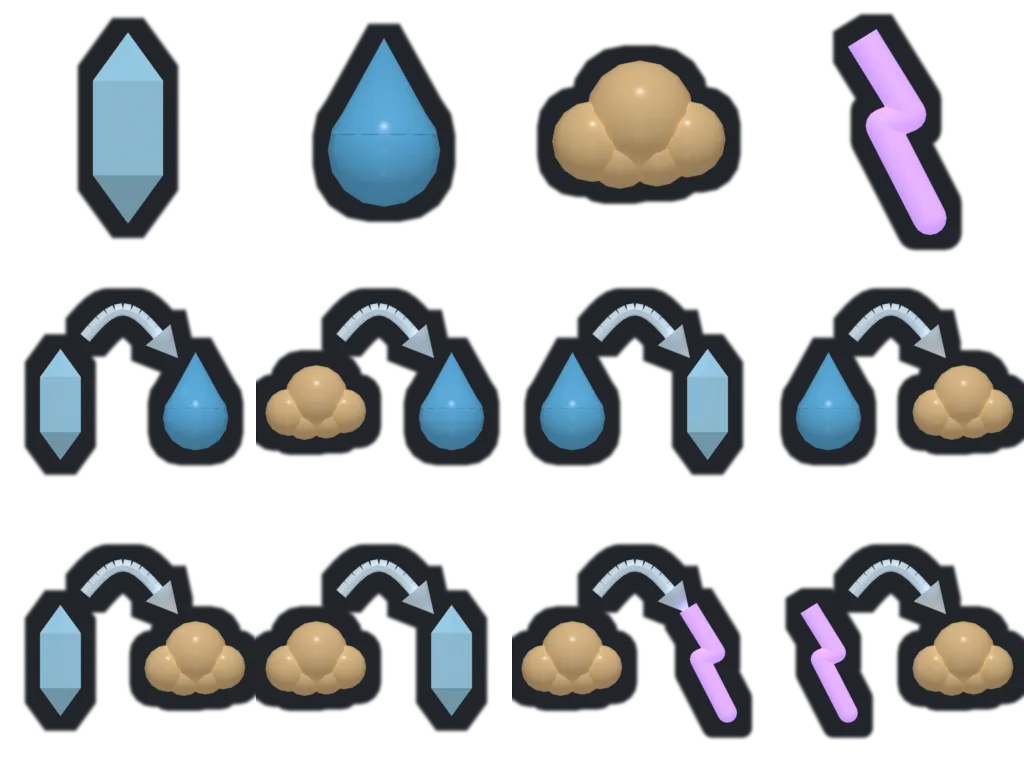
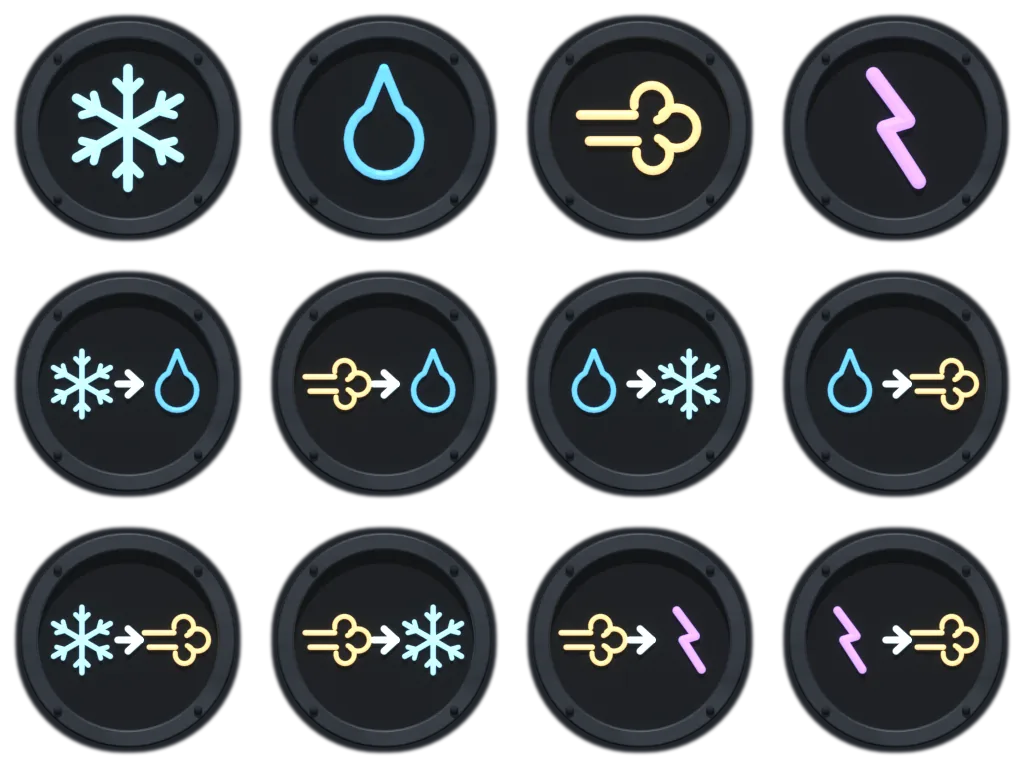
Les icônes deviennent des plaques d'instrument, aux couleurs des états
Symptôme : le concepteur, sur la première planche : « ces icônes ne
collent pas à l'univers actuel, ça fait un peu enfantin » — des objets
ronds et saturés, cernés de noir comme des autocollants ; le cube de la
glace et la nuée de la vapeur, peu clairs.

Correctif : chaque icône est un voyant de pupitre — un disque d'acier
riveté, sa face sombre, le symbole incrusté en émail qui luit à la
couleur de son état (glace #a7ddf5, eau #63b7e6, vapeur #f2c98e, plasma
#c99aff). Symboles retenus par le concepteur sur trois essais : le
flocon, la goutte, le souffle qui se disperse en nuée (une fonction à
part, l'état vapeur va changer), l'éclair. Les transformations : deux
symboles et une flèche gravée ; les trophées : une plaque ouvragée
(double lunette, huit rivets). Le cerne de l'assemblage passe de 15 à
5 px : la lunette détache déjà la plaque.

Vérification : prepare.py, les deux planches dans leurs seuils
(luminance 0,20, 0 % de bord plein, 43 et 32 Ko) ; réduites à 24 et
32 px, les douze icônes du cycle restent lisibles ; la barre d'état,
rendue avec la vraie feuille de style, montre flocon et goutte dans
leurs logements, l'état courant compris ; vitest vert.

Claude-Session: https://claude.ai/code/session_01KG6njsQbdRMcn6wzwbrg11

diff --git a/tools/images/blender/icones.py b/tools/images/blender/icones.py
@@ -6,12 +6,17 @@ le dessin change d'une machine à l'autre (sans police emoji : un carré vide).
 Ici, chaque icône est une petite pièce de l'atelier, rendue seule dans une
 case de 256 px ; tools/images/icones_planches.py les cerne et les range.
 
-ELLES DOIVENT SE LIRE À 24 PX (le logement de l'ATH au repos ; 32 px pour
-l'état courant, dont le fond est de la même teinte) : des silhouettes
-FRANCHES, peu de détails, une matière qui luit un peu par elle-même (une face
-à l'ombre ne doit pas tomber au noir), et le contour sombre posé à
-l'assemblage. Les couleurs de la charte : glace #a7ddf5, eau #63b7e6, vapeur
-#f2c98e, plasma #c99aff ; ni texte, ni cadre.
+LE STYLE : DES PLAQUES D'INSTRUMENT (choix du concepteur, 18/11). Le premier
+jet — des objets ronds et saturés, cernés de noir — « faisait enfantin », loin
+de l'acier riveté du laboratoire. Chaque icône est maintenant un voyant de
+pupitre : un disque d'acier riveté, sa face sombre, et le symbole incrusté en
+ÉMAIL qui luit, à la couleur de son état (charte : glace #a7ddf5, eau #63b7e6,
+vapeur #f2c98e, plasma #c99aff). Les symboles, retenus par le concepteur : le
+FLOCON (le carré du cadran ne se lisait pas), la GOUTTE, le SOUFFLE qui se
+disperse en nuée (la vapeur — « l'état vapeur va sûrement pas mal changer » :
+son symbole est une fonction à part, `souffle`), l'ÉCLAIR. Ils doivent se lire à
+24 px (le logement de l'ATH au repos ; 32 px pour l'état courant) : des traits
+francs, rien de fin.
 
 Une case : x de −0,125 à 0,125, z de 0 à 0,25 (1 = 1024 px), centre (0, 0,125).
 
@@ -45,8 +50,7 @@ TROPHEES = ['sans-une-goutte', 'palet-parfait', 'trois-etats', 'ligne-de-crete',
 
 
 def mat_lumineux(nom, couleur, force):
-    """une matière qui luit un peu d'elle-même : à 24 px, la face à l'ombre
-    d'une goutte qui tombe au noir coupe la silhouette en deux"""
+    """l'émail du symbole : il luit par lui-même, à la couleur de son état"""
     m = mat_simple(nom, couleur, rug=0.3, emission=couleur, force=force)
     b = next(n for n in m.node_tree.nodes if n.type == 'BSDF_PRINCIPLED')
     for k in ('Specular IOR Level', 'Specular'):
@@ -56,135 +60,135 @@ def mat_lumineux(nom, couleur, force):
     return m
 
 
+COULEURS = {'solide': (0xa7, 0xdd, 0xf5), 'liquide': (0x63, 0xb7, 0xe6),
+            'gaz': (0xf2, 0xc9, 0x8e), 'plasma': (0xc9, 0x9a, 0xff),
+            'neutre': (0xcf, 0xe2, 0xee)}
+
+
 def matieres_icones():
     mats = matieres_biome()
-    mats['glace'] = mat_lumineux('ic-glace', (0xa7, 0xdd, 0xf5), 0.35)
-    mats['eau'] = mat_lumineux('ic-eau', (0x63, 0xb7, 0xe6), 0.35)
-    mats['vapeur'] = mat_lumineux('ic-vapeur', (0xf2, 0xc9, 0x8e), 0.3)
-    mats['plasma'] = mat_lumineux('ic-plasma', (0xc9, 0x9a, 0xff), 1.0)
-    mats['fleche'] = mat_lumineux('ic-fleche', (0xcf, 0xe2, 0xee), 0.45)
-    mats['acier'] = mat_brosse('ic-acier', (0x4a, 0x52, 0x5c), (0x8a, 0x94, 0xa0), 41, brosse=0.08)
-    mats['sombre'] = mat_simple('ic-sombre', (0x1a, 0x20, 0x28), rug=0.6)
+    for k, c in COULEURS.items():
+        mats['email-' + k] = mat_lumineux('ic-email-' + k, c, 1.3)
+    mats['face'] = mat_simple('ic-face', (0x10, 0x15, 0x1b), rug=0.5)
+    mats['bezel'] = mat_brosse('ic-bezel', (0x40, 0x46, 0x4e), (0x86, 0x8e, 0x98), 51, brosse=0.12)
     return mats
 
 
-# ------------------------------------------------------------ les quatre états
-def cristal(at, x, z, s):
-    """un prisme de glace à six pans, pointu aux deux bouts"""
-    at.tube('glace', (x, 0, z - 0.42 * s), (x, 0, z + 0.42 * s), 0.36 * s, seg=6)
-    at.tube('glace', (x, 0, z + 0.42 * s), (x, 0, z + 0.85 * s), 0.36 * s, seg=6, r2=0.0)
-    at.tube('glace', (x, 0, z - 0.42 * s), (x, 0, z - 0.85 * s), 0.36 * s, seg=6, r2=0.0)
+# ------------------------------------------------------------ la plaque
+def plaque(at, trophee=False):
+    """le voyant : la face sombre, la lunette d'acier brossé, ses rivets —
+    celle d'un trophée est ouvragée (double lunette, huit rivets)"""
+    at.cylindre('face', 0, Z0, 0.092, -0.01, 0.01, 0, seg=64)
+    at.anneau('bezel', 0, Z0, 0.105, 0.088, -0.022, 0.012, 0, seg=64)
+    n = 8 if trophee else 4
+    for k in range(n):
+        a = math.pi / 4 + k * 2 * math.pi / n
+        at.dome('rivet', 0.097 * math.cos(a), Z0 + 0.097 * math.sin(a), 0.0045, -0.024, 0)
+    if trophee:
+        at.anneau('bezel', 0, Z0, 0.084, 0.079, -0.014, 0.0, 0, seg=64)
 
 
-def goutte(at, x, z, s):
-    at.coussin('eau', x, z - 0.2 * s, 0.5 * s, 0.5 * s, 0.5 * s, 0, 0)
-    at.tube('eau', (x, 0, z - 0.05 * s), (x, 0, z + 0.8 * s), 0.47 * s, seg=32, r2=0.0)
+Y_EMAIL = -0.013
+TRAIT = 0.0045
 
 
-def nuee(at, x, z, s):
-    for (dx, dz, r) in ((-0.42, -0.12, 0.36), (0.0, 0.12, 0.48), (0.42, -0.1, 0.34), (0.15, -0.22, 0.3), (-0.18, -0.24, 0.3)):
-        at.coussin('vapeur', x + dx * s, z + dz * s, r * s, r * s, r * s, 0, 0)
+def trace(at, etat, pts, r=TRAIT):
+    """un trait d'émail le long d'une polyligne, aux joints arrondis"""
+    m = 'email-' + etat
+    for (a, b) in zip(pts, pts[1:]):
+        at.tube(m, (a[0], Y_EMAIL, a[1]), (b[0], Y_EMAIL, b[1]), r, seg=8)
+        at.coussin(m, b[0], b[1], r, r, r, Y_EMAIL, 0)
+    at.coussin(m, pts[0][0], pts[0][1], r, r, r, Y_EMAIL, 0)
 
 
-def arc(at, x, z, s):
-    """l'arc électrique : un éclair épais en trois segments"""
-    pts = [(-0.3, 0.8), (0.12, 0.12), (-0.12, 0.02), (0.3, -0.8)]
-    pts = [(x + a * s, 0, z + b * s) for a, b in pts]
-    for p0, p1 in zip(pts, pts[1:]):
-        at.tube('plasma', p0, p1, 0.15 * s, seg=12)
-        at.coussin('plasma', p1[0], p1[2], 0.15 * s, 0.15 * s, 0.15 * s, 0, 0)
+def arc_pts(cx, cz, rr, a0, a1, n=16):
+    return [(cx + rr * math.cos(a0 + (a1 - a0) * k / n), cz + rr * math.sin(a0 + (a1 - a0) * k / n)) for k in range(n + 1)]
 
 
-ETATS = {'solide': cristal, 'liquide': goutte, 'gaz': nuee, 'plasma': arc}
+# ------------------------------------------------------------ les symboles
+# Chacun dans un disque de rayon ~1 autour de (cx, cz), à l'échelle s.
+def flocon(at, cx, cz, s, etat='solide'):
+    for k in range(6):
+        a = math.pi / 2 + k * math.pi / 3
+        d = (math.cos(a), math.sin(a))
+        trace(at, etat, [(cx, cz), (cx + s * d[0], cz + s * d[1])], TRAIT * min(1, s / 0.058))
+        b = (cx + 0.58 * s * d[0], cz + 0.58 * s * d[1])
+        for sg in (-1, 1):
+            a2 = a + sg * math.pi / 4
+            trace(at, etat, [b, (b[0] + 0.28 * s * math.cos(a2), b[1] + 0.28 * s * math.sin(a2))], TRAIT * 0.85 * min(1, s / 0.058))
 
 
-def fleche(at, x0, x1, z, h):
-    """une flèche fine, en arc, de x0 à x1, sa pointe à droite"""
-    n = 10
-    pts = [(x0 + (x1 - x0) * k / n, 0, z + h * math.sin(math.pi * k / n)) for k in range(n + 1)]
-    for p0, p1 in zip(pts, pts[1:]):
-        at.tube('fleche', p0, p1, 0.006, seg=8)
-    a, b = Vector(pts[-2]), Vector(pts[-1])
-    d = (b - a).normalized()
-    at.tube('fleche', tuple(b - d * 0.004), tuple(b + d * 0.026), 0.016, seg=12, r2=0.0)
+def goutte(at, cx, cz, s, etat='liquide'):
+    r = 0.6 * s
+    pts = [(cx, cz + s)] + arc_pts(cx, cz - 0.2 * s, r, math.pi * 0.65 + math.pi / 2 - math.pi / 2, math.pi * 2.35, 20) + [(cx, cz + s)]
+    trace(at, etat, pts, TRAIT * min(1, s / 0.058))
+
+
+def souffle(at, cx, cz, s, etat='gaz'):
+    """LA VAPEUR : un souffle venu de la gauche qui se disperse en nuée —
+    deux traits, puis trois volutes ouvertes côté souffle. (L'état vapeur va
+    changer : c'est le seul symbole à redessiner alors.)"""
+    k = min(1, s / 0.058)
+    trace(at, etat, [(cx - s, cz + 0.22 * s), (cx - 0.1 * s, cz + 0.22 * s)], TRAIT * k)
+    trace(at, etat, [(cx - 0.85 * s, cz - 0.22 * s), (cx - 0.05 * s, cz - 0.22 * s)], TRAIT * k)
+    for (dx, dz, rr, a0, a1) in ((0.2, 0.42, 0.3, -0.4 * math.pi, 1.05 * math.pi), (0.62, 0.0, 0.34, -0.75 * math.pi, 0.75 * math.pi),
+                                 (0.22, -0.44, 0.28, -1.05 * math.pi, 0.4 * math.pi)):
+        trace(at, etat, arc_pts(cx + dx * s, cz + dz * s, rr * s, a0, a1, 18), TRAIT * 0.9 * k)
+
+
+def eclair(at, cx, cz, s, etat='plasma'):
+    # (essai 1, à 1,15 trait sur un zigzag étroit : le plus maigre des quatre)
+    pts = [(-0.38, 0.9), (0.2, 0.12), (-0.2, 0.0), (0.38, -0.9)]
+    trace(at, etat, [(cx + a * s, cz + b * s) for a, b in pts], TRAIT * 1.6 * min(1, s / 0.058))
+
+
+SYMBOLES = {'solide': flocon, 'liquide': goutte, 'gaz': souffle, 'plasma': eclair}
+
+
+def fleche(at, x0, x1, z):
+    trace(at, 'neutre', [(x0, z), (x1, z)], TRAIT * 0.7)
+    trace(at, 'neutre', [(x1 - 0.012, z + 0.011), (x1, z), (x1 - 0.012, z - 0.011)], TRAIT * 0.7)
 
 
 def transformation(at, src, dst):
-    # (essai 1, à 0,075 et ±0,07 : la nuée débordait de sa case, rognée par
-    # le bord, son cerne avec elle)
-    ETATS[src](at, -0.066, Z0 - 0.02, 0.064)
-    ETATS[dst](at, 0.066, Z0 - 0.02, 0.064)
-    fleche(at, -0.042, 0.032, Z0 + 0.045, 0.028)
+    SYMBOLES[src](at, -0.045, Z0, 0.032)
+    SYMBOLES[dst](at, 0.048, Z0, 0.032)
+    fleche(at, -0.01, 0.012, Z0)
 
 
 # ------------------------------------------------------------ les trophées
-def poly(at, mat, pts, yf=-0.01, yb=0.01):
-    at.prisme(mat, pts, yf, yb)
-
-
 def trophee(at, nom):
     if nom == 'sans-une-goutte':
-        at.anneau('acier', 0, Z0, 0.1, 0.082, -0.012, 0.012, 0, seg=64)
-        goutte(at, 0, Z0 - 0.005, 0.085)
+        at.anneau('email-liquide', 0, Z0, 0.062, 0.056, Y_EMAIL - 0.002, Y_EMAIL + 0.002, 0, seg=64)
+        goutte(at, 0, Z0, 0.04)
     elif nom == 'palet-parfait':
-        at.cylindre('glace', 0, Z0, 0.09, -0.012, 0.012, 0, seg=64)
-        at.anneau('fleche', 0, Z0, 0.09, 0.078, -0.016, -0.012, 0, seg=64)
-        # deux reflets droits : un palet POLI, pas une boule de neige
-        for (a, b) in (((-0.04, 0.03), (0.02, 0.05)), ((-0.05, -0.01), (0.04, 0.025))):
-            at.tube('fleche', (a[0], -0.018, Z0 + a[1]), (b[0], -0.018, Z0 + b[1]), 0.004, seg=6)
+        h = [(0.05 * math.cos(k * math.pi / 3), Z0 + 0.05 * math.sin(k * math.pi / 3)) for k in range(7)]
+        trace(at, 'solide', h)
+        trace(at, 'solide', [(-0.022, Z0 + 0.012), (0.012, Z0 + 0.026)], TRAIT * 0.7)
     elif nom == 'trois-etats':
-        cristal(at, 0, Z0 + 0.045, 0.065)
-        goutte(at, -0.055, Z0 - 0.05, 0.06)
-        nuee(at, 0.055, Z0 - 0.05, 0.065)
+        flocon(at, 0, Z0 + 0.036, 0.024)
+        goutte(at, -0.036, Z0 - 0.026, 0.024)
+        souffle(at, 0.038, Z0 - 0.026, 0.024)
     elif nom == 'ligne-de-crete':
-        poly(at, 'acier', [(-0.105, Z0 - 0.07), (-0.05, Z0 + 0.0), (-0.02, Z0 - 0.025), (0.035, Z0 + 0.06),
-                           (0.105, Z0 - 0.07)])
-        poly(at, 'glace', [(0.012, Z0 + 0.03), (0.035, Z0 + 0.06), (0.058, Z0 + 0.03), (0.046, Z0 + 0.038),
-                           (0.035, Z0 + 0.026), (0.024, Z0 + 0.038)], -0.012, -0.01)
-        at.tube('acier', (0.035, -0.012, Z0 + 0.06), (0.035, -0.012, Z0 + 0.11), 0.004, seg=8)
-        poly(at, 'eau', [(0.037, Z0 + 0.108), (0.08, Z0 + 0.095), (0.037, Z0 + 0.082)], -0.014, -0.012)
+        trace(at, 'solide', [(-0.06, Z0 - 0.035), (-0.025, Z0 + 0.0), (-0.008, Z0 - 0.016), (0.022, Z0 + 0.03), (0.06, Z0 - 0.035)])
+        trace(at, 'neutre', [(0.022, Z0 + 0.03), (0.022, Z0 + 0.065)], TRAIT * 0.7)
+        trace(at, 'liquide', [(0.022, Z0 + 0.065), (0.048, Z0 + 0.055), (0.022, Z0 + 0.046)], TRAIT * 0.7)
     elif nom == 'miroir-vivant':
-        cristal(at, 0.02, Z0 - 0.01, 0.07)
-        at.tube('eau', (-0.105, -0.02, Z0 + 0.07), (0.0, -0.02, Z0 - 0.0), 0.009, seg=10)
-        at.tube('eau', (0.0, -0.02, Z0 - 0.0), (0.1, -0.02, Z0 + 0.08), 0.009, seg=10)
-        at.coussin('fleche', 0.0, Z0, 0.016, 0.016, 0.016, -0.025, 0)
+        trace(at, 'neutre', [(0.0, Z0 - 0.05), (0.045, Z0 - 0.005)], TRAIT * 1.2)
+        trace(at, 'liquide', [(-0.06, Z0 + 0.045), (0.022, Z0 - 0.027), (0.02, Z0 + 0.06)])
     elif nom == 'recondense':
-        at.boite('acier', -0.1, 0.1, Z0 - 0.07, Z0 - 0.045, -0.02, 0.02, 0)
+        trace(at, 'neutre', [(-0.06, Z0 - 0.03), (0.06, Z0 - 0.03)], TRAIT * 0.8)
         for k in range(5):
-            x = -0.08 + k * 0.04
-            at.coussin('eau', x, Z0 - 0.025, 0.017, 0.017, 0.017, -0.005, 0)
+            at.coussin('email-liquide', -0.048 + k * 0.024, Z0 - 0.01, 0.009, 0.009, 0.004, Y_EMAIL, 0)
     elif nom == 'integrale':
-        # la station : un fût, deux ailes de panneaux
-        at.tube('acier', (-0.03, 0, Z0), (0.03, 0, Z0), 0.018, seg=24)
-        at.boite('glace', -0.08, -0.035, Z0 - 0.022, Z0 + 0.022, -0.003, 0.003, 0)
-        at.boite('glace', 0.035, 0.08, Z0 - 0.022, Z0 + 0.022, -0.003, 0.003, 0)
-
-        # l'orbite : une ellipse inclinée, sa moitié arrière DERRIÈRE la station
-        def p(t):
-            xx, zz = 0.105 * math.cos(t), 0.04 * math.sin(t)
-            c, s_ = math.cos(-0.35), math.sin(-0.35)
-            return (xx * c - zz * s_, (0.03 if math.sin(t) > 0 else -0.03), Z0 + xx * s_ + zz * c)
-        n = 48
-        for k in range(n):
-            at.tube('fleche', p(2 * math.pi * k / n), p(2 * math.pi * (k + 1) / n), 0.004, seg=6)
-        at.coussin('eau', p(1.2)[0], p(1.2)[2], 0.012, 0.012, 0.012, -0.035, 0)
+        el = [(0.065 * math.cos(2 * math.pi * k / 40), Z0 + 0.026 * math.sin(2 * math.pi * k / 40)) for k in range(41)]
+        c, s_ = math.cos(-0.35), math.sin(-0.35)
+        trace(at, 'liquide', [(x * c - (z - Z0) * s_, Z0 + x * s_ + (z - Z0) * c) for x, z in el], TRAIT * 0.75)
+        trace(at, 'solide', [(-0.014, Z0 - 0.014), (0.014, Z0 - 0.014), (0.014, Z0 + 0.014), (-0.014, Z0 + 0.014), (-0.014, Z0 - 0.014)])
     elif nom == 'operateur-de-nuit':
-        # le pupitre, et au-dessus le croissant de lune
-        poly(at, 'acier', [(-0.09, Z0 - 0.09), (0.09, Z0 - 0.09), (0.09, Z0 - 0.05), (0.06, Z0 - 0.02),
-                           (-0.06, Z0 - 0.02), (-0.09, Z0 - 0.05)])
-        for k in range(3):
-            at.cylindre('eau', -0.04 + k * 0.04, Z0 - 0.05, 0.008, -0.013, -0.01, 0, seg=16)
-        # le croissant : le bord gauche d'un disque, moins un disque égal
-        # décalé à droite
-        R, dx, zc = 0.06, 0.03, Z0 + 0.04
-        pts = []
-        for k in range(25):
-            a = math.pi / 2 + math.pi * k / 24
-            pts.append((R * math.cos(a), zc + R * math.sin(a)))
-        for k in range(1, 24):
-            yy = -R + 2 * R * k / 24
-            pts.append((dx - math.sqrt(max(R * R - yy * yy, 0.0)), zc + yy))
-        poly(at, 'glace', pts)
+        trace(at, 'solide', arc_pts(-0.004, Z0 + 0.014, 0.036, 0.35 * math.pi, 1.65 * math.pi, 22) +
+              arc_pts(0.012, Z0 + 0.014, 0.028, 1.45 * math.pi, 0.55 * math.pi, 18))
+        trace(at, 'neutre', [(-0.05, Z0 - 0.045), (0.05, Z0 - 0.045)], TRAIT * 0.8)
 
 
 def icones():
@@ -195,13 +199,14 @@ def icones():
     for nom in CYCLE + TROPHEES:
         P = parent(sc, nom)
         at = Atelier()
-        if nom in ETATS:
-            ETATS[nom](at, 0, Z0, 0.11)
+        plaque(at, trophee=nom in TROPHEES)
+        if nom in SYMBOLES:
+            SYMBOLES[nom](at, 0, Z0, 0.058)
         elif nom in TRANSFOS:
             transformation(at, *TRANSFOS[nom])
         else:
             trophee(at, nom)
-        at.objets(P, mats, {}, True, nom)
+        at.objets(P, mats, {'bezel': 0.002}, True, nom)
         declare(nom, P, -0.125, 0.125, 0, 0.25)
     lumiere_camera(sc)
     sc.cycles.device = 'GPU'

diff --git a/tools/images/icones_planches.py b/tools/images/icones_planches.py
@@ -32,7 +32,9 @@ ROOT = os.path.dirname(os.path.dirname(os.path.dirname(os.path.abspath(__file__)
 SRC = os.path.join(ROOT, 'masters', 'images', 'sources', 'icones')
 DST = os.path.join(ROOT, 'masters', 'images')
 CASE = 256
-CERNE = 15  # rayon du cerne, en px de la case
+# (15 au premier jet, des objets nus ; la plaque a maintenant sa lunette :
+# un liseré fin suffit à la détacher d'un logement de sa teinte)
+CERNE = 5  # rayon du cerne, en px de la case
 TEINTE_CERNE = (8, 12, 18)
 
 CYCLE = ['solide', 'liquide', 'gaz', 'plasma',
